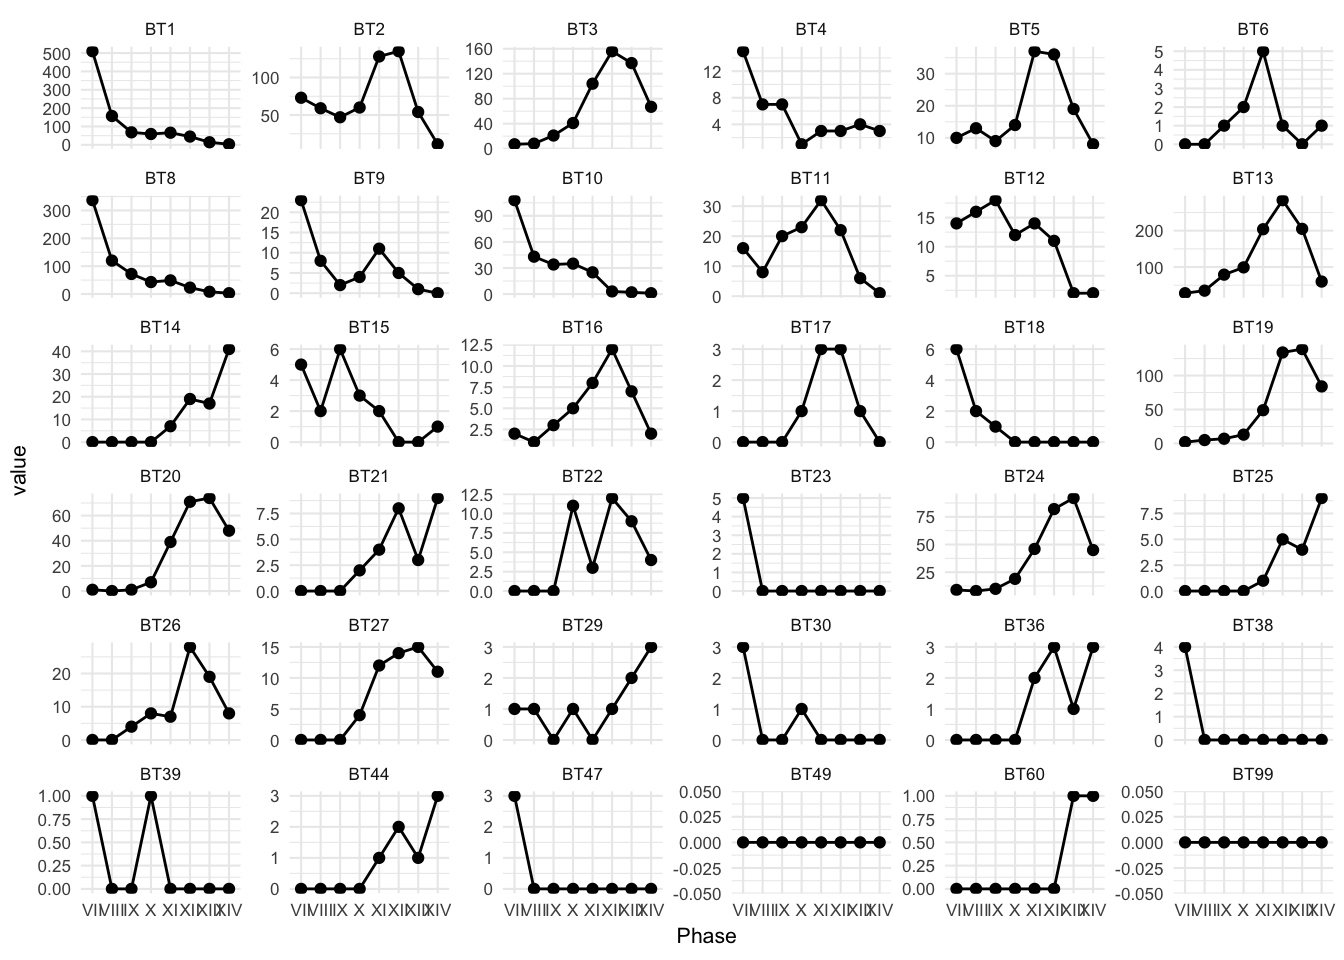
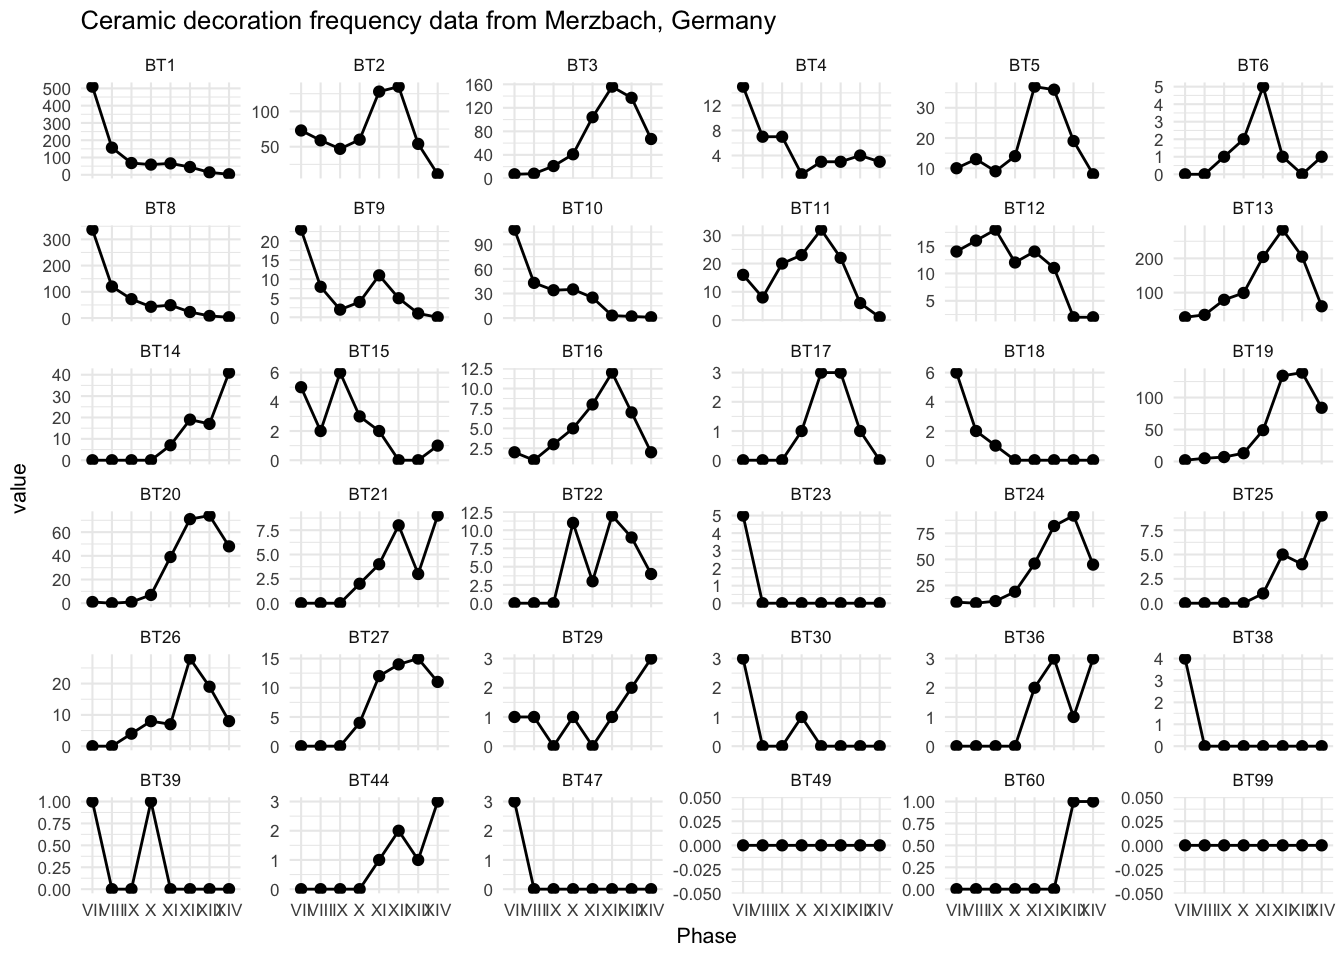
compute selection coef

diff --git a/README.md b/README.md
@@ -112,18 +112,52 @@ The selection coefficient for non-neutral model is in `s`, and so the value here
 An archaeological application
 -----------------------------
 
+### The frequency increment test
+
 Here is an example of using the FIT to identify pottery types that indicate selection. We are using frequencies of different decorative motifs in the Merzbach assemblage, Neolithic Germany (Crema et al. 2016; many other papers). We can load the data from the `evoarchdata` package on GitHub:
 
 ``` r
 # pak::pkg_install("benmarwick/evoarchdata")
 library(evoarchdata)
 data("ceramics_lbk_merzbach")
+
+# take a look
+ceramics_lbk_merzbach
+#>   Phase BT14 BT25 BT60 BT21 BT36 BT44 BT20 BT22 BT19 BT27 BT29 BT24 BT26
+#> 1   VII    0    0    0    0    0    0    1    0    2    0    1    9    0
+#> 2  VIII    0    0    0    0    0    0    0    0    5    0    1    8    0
+#> 3    IX    0    0    0    0    0    0    1    0    7    0    0   10    4
+#> 4     X    0    0    0    2    0    0    7   11   13    4    1   19    8
+#> 5    XI    7    1    0    4    2    1   39    3   49   12    0   46    7
+#> 6   XII   19    5    0    8    3    2   71   12  134   14    1   82   28
+#> 7  XIII   17    4    1    3    1    1   74    9  139   15    2   92   19
+#> 8   XIV   41    9    1    9    3    3   48    4   84   11    3   45    8
+#>   BT6 BT3 BT17 BT13 BT16 BT5 BT2 BT11 BT99 BT49 BT12 BT4 BT15 BT9 BT39
+#> 1   0   7    0   28    2  10  73   16    0    0   14  15    5  23    1
+#> 2   0   8    0   35    1  13  59    8    0    0   16   7    2   8    0
+#> 3   1  21    0   79    3   9  47   20    0    0   18   7    6   2    0
+#> 4   2  41    1   99    5  14  60   23    0    0   12   1    3   4    1
+#> 5   5 104    3  204    8  37 128   32    0    0   14   3    2  11    0
+#> 6   1 156    3  284   12  36 135   22    0    0   11   3    0   5    0
+#> 7   0 137    1  205    7  19  54    6    0    0    2   4    0   1    0
+#> 8   1  67    0   60    2   8  11    1    0    0    2   3    1   0    0
+#>   BT10 BT8 BT1 BT30 BT18 BT47 BT38 BT23
+#> 1  108 337 510    3    6    3    4    5
+#> 2   43 120 157    0    2    0    0    0
+#> 3   34  72  68    0    1    0    0    0
+#> 4   35  43  59    1    0    0    0    0
+#> 5   25  49  66    0    0    0    0    0
+#> 6    3  23  45    0    0    0    0    0
+#> 7    2   8  14    0    0    0    0    0
+#> 8    1   3   3    0    0    0    0    0
 ```
 
 Here's an overview of how each motif changes over time in this assemblage:
 
 ``` r
 # get ordered factor of decoration types so we can order the plots nicely 
+
+# install.packages("tidyverse")
 suppressPackageStartupMessages(library(tidyverse))
 
 decoration_types <- 
@@ -150,17 +184,46 @@ ggplot(ceramics_lbk_merzbach_long,
   geom_point() +
   facet_wrap(~variable,
              scales = "free_y") +
-  theme_minimal(base_size = 8)
+  theme_minimal(base_size = 8) +
+  ggtitle(str_glue('Ceramic decoration frequency data from Merzbach, Germany'))
 ```
 
 <img src="man/figures/README-unnamed-chunk-4-1.png" width="100%" />
+
+There are many decoration types, so let's narrow it down to ones that have a maximum frequency of at least 50.
+
+``` r
+ceramics_lbk_merzbach_long_subset <-
+  ceramics_lbk_merzbach_long %>% 
+  group_by(variable) %>% 
+  filter(max(value) > max_n)
+
+# keep these decorations
+decorations_to_keep <- unique(as.character(ceramics_lbk_merzbach_long_subset$variable))
+
+# plot
+ggplot(ceramics_lbk_merzbach_long_subset,
+       aes(Phase,
+           value)) +
+  geom_line(aes(group = 1)) +
+  geom_point() +
+  facet_wrap(~variable,
+             scales = "free_y") +
+  theme_minimal(base_size = 8)
+```
+
+<img src="man/figures/README-unnamed-chunk-5-1.png" width="100%" />
 
 To prepare the data for the FIT we need to reshape it to a long form, compute frequency as ratio of count of type of a interest to all other types, and drop decoration types with less than threee time points (we need a min of three time points to compute the FIT).
 
 ``` r
 # reshape data for each decoration type to go into test:
-df <- ceramics_lbk_merzbach[ , 2:ncol(ceramics_lbk_merzbach)]
-time <- utils:::.roman2numeric(ceramics_lbk_merzbach$Phase)
+ceramics_lbk_merzbach_prop <- 
+  ceramics_lbk_merzbach %>% 
+  select(Phase, decorations_to_keep)
+
+df <- ceramics_lbk_merzbach_prop[ , 2:ncol(ceramics_lbk_merzbach_prop)]
+time <- utils:::.roman2numeric(ceramics_lbk_merzbach_prop$Phase)
 
 # compute frequency as ratio of count of type of interest to all other types
 list_of_dfs <- vector("list", ncol(df))
@@ -209,7 +272,8 @@ df_fit_test_results <-
   mutate(sig = ifelse(fit_p <= 0.05, "selection", "neutral"))
 
 ceramics_lbk_merzbach_long_sig <-
-  ceramics_lbk_merzbach_long %>%
+  ceramics_lbk_merzbach_long_subset %>%
+  ungroup %>% 
   left_join(df_fit_test_results %>% 
               select(type, sig), by = c("variable" = "type")) %>%
   mutate(Phase_num = utils:::.roman2numeric(as.character(Phase))) %>% 
@@ -227,17 +291,19 @@ ggplot(ceramics_lbk_merzbach_long_sig,
   geom_line() +
   facet_wrap(~variable,
              scales = "free_y") +
-  theme_minimal(base_size = 8)
+  theme_minimal(base_size = 8) +
+  ggtitle(str_glue('Application of the FIT to decoration frequency data from Merzbach.\nShowing only decoration types that have a maximum frequency of at least {max_n}'))
 ```
 
-<img src="man/figures/README-unnamed-chunk-7-1.png" width="100%" />
+<img src="man/figures/README-unnamed-chunk-8-1.png" width="100%" />
 
 We can subset each time series to see if we can identify episodes of selection among decoration types that might not show overall selection. First we need a function to isolate a data frame of rolling groups of three time points:
 
 ``` r
-# Function to get df with rolling groups of 3
+# Function to get df with rolling groups of n
 # from https://stackoverflow.com/a/5543632/1036500
-df_with_rolling_idx <- function(df, window = 3) {
+n <- 5
+df_with_rolling_idx <- function(df, window = n) {
   nr <- nrow(df)
   w <- window       # window size
   i <- 1:nr         # indices of the rows
@@ -255,11 +321,9 @@ df_with_rolling_idx <- function(df, window = 3) {
 Now we can compute the FIT on sections of the time series for each decoration type to identify time coordinates where selection has occurred, even when the overall series does not indicate selection:
 
 ``` r
-n <- 5
 merzbach_long_sig_mid_time_point <- 
 list_of_dfs %>% 
-  keep(., ~nrow(.x) >= n) %>% # need at least 4 rows of a type
-  bind_rows(.id = "type") %>% # to get rolling window of 3
+  bind_rows(.id = "type") %>% # to get rolling window of n
   nest(-type) %>%
   mutate(rolled = map(data, df_with_rolling_idx)) %>% 
   unnest(rolled) %>% 
@@ -271,13 +335,7 @@ list_of_dfs %>%
   mutate(fit_p = map(fit_test, ~.x$result %>% bind_rows)) %>%
   unnest(fit_p) %>%
   mutate(sig = ifelse(fit_p <= 0.05, "selection", "neutral")) %>% 
-  unnest(data) %>%                            
-  group_by(unid) %>%                          
-  slice(ceiling(n()/2)) %>% 
-  right_join(list_of_dfs %>% 
-               keep(., ~nrow(.x) >= n) %>% # need at least 4 rows of a type
-               bind_rows(.id = "type")) 
-#> Joining, by = c("type", "time", "count_this_one", "count_others", "frequency")
+  unnest(data) 
 
 # make type a factor so we can order the plots nicely 
 merzbach_long_sig_mid_time_point$type <- 
@@ -296,6 +354,13 @@ ceramics_lbk_merzbach_long_sig_to_plot_with_others <-
   arrange(type, time) %>% 
   mutate(type = fct_relevel(type, decoration_types))
 
+sig_decorations <- 
+  ceramics_lbk_merzbach_long_sig_to_plot_with_others %>% 
+  filter(sig == "selection") %>% 
+  pull(type) %>% 
+  as.character() %>% 
+  unique()
+
 # here we have the plot showing overall selection, and point-wise selection
 ggplot()  +
   geom_line(data = merzbach_long_sig_mid_time_point %>% 
@@ -307,9 +372,7 @@ ggplot()  +
             colour = "grey80",
             lineend = "round") +
   geom_point(data = merzbach_long_sig_mid_time_point %>% 
-               filter(sig == "selection") %>% 
-               group_by(type)  %>% 
-               filter(n() > 2),
+               filter(sig == "selection"),
              aes(time,
                  count_this_one,
                  group = type),
@@ -327,33 +390,84 @@ ggplot()  +
                 colour = sig,
                 shape = sig))  +
   facet_wrap( ~ type, scales = "free_y") +
-  theme_minimal(base_size = 8)
-#> geom_path: Each group consists of only one observation. Do you need to
-#> adjust the group aesthetic?
-#> geom_path: Each group consists of only one observation. Do you need to
-#> adjust the group aesthetic?
-#> geom_path: Each group consists of only one observation. Do you need to
-#> adjust the group aesthetic?
-#> geom_path: Each group consists of only one observation. Do you need to
-#> adjust the group aesthetic?
-#> geom_path: Each group consists of only one observation. Do you need to
-#> adjust the group aesthetic?
-#> geom_path: Each group consists of only one observation. Do you need to
-#> adjust the group aesthetic?
-#> geom_path: Each group consists of only one observation. Do you need to
-#> adjust the group aesthetic?
-#> geom_path: Each group consists of only one observation. Do you need to
-#> adjust the group aesthetic?
-#> geom_path: Each group consists of only one observation. Do you need to
-#> adjust the group aesthetic?
-#> geom_path: Each group consists of only one observation. Do you need to
-#> adjust the group aesthetic?
-#> geom_path: Each group consists of only one observation. Do you need to
-#> adjust the group aesthetic?
-#> geom_path: Each group consists of only one observation. Do you need to
-#> adjust the group aesthetic?
+  theme_minimal(base_size = 8) +
+  ggtitle(str_glue('Application of the FIT to decoration frequency data from Merzbach.\nShading highlights the data points where FIT identifies selection'))
 ```
 
-<img src="man/figures/README-unnamed-chunk-9-1.png" width="100%" />
+<img src="man/figures/README-unnamed-chunk-10-1.png" width="100%" />
+
+### Estimating the population size and the selection coefficient
+
+We can compute the selection coefficient and related statistics for the decoration types that we previously identified as having a signal of selection.
+
+``` r
+decoration_types_tsinfer_output <- 
+list_of_dfs_three_or_more %>% 
+  keep(., names(.) %in% sig_decorations) %>% 
+  map(~tsinfer(
+    tvec = .x$time,
+    bvec = .x$count_this_one,
+    nvec = .x$count_others,
+    verbose = FALSE
+  )) %>% 
+  bind_rows(.id = "type")
+
+# inspect the output
+decoration_types_tsinfer_output
+#> # A tibble: 7 x 9
+#>   type    s.0     alpha.0     f0.0    LL.0       s     alpha     f0      LL
+#>   <chr> <dbl>       <dbl>    <dbl>   <dbl>   <dbl>     <dbl>  <dbl>   <dbl>
+#> 1 BT20      0 100000000.  0.000931  -640.   0.699     1.00e8 0.999  -1.16e4
+#> 2 BT19      0 100000000.  0.00186  -1004.   0.242     1.00e8 1.000  -1.41e3
+#> 3 BT24      0 100000000.  0.00844   -114.   0.124     1.00e8 0.998  -1.34e2
+#> 4 BT3       0        11.1 0.00655     30.1  0.213     1.00e8 0.900  -4.30e2
+#> 5 BT13      0        10.  0.0267      37.4  0.0670    1.00e1 0.993   3.63e1
+#> 6 BT2       0        42.2 0.0729      32.7  0.0863    1.14e2 0.0458  3.20e1
+#> 7 BT8       0        75.3 0.457       35.2 -0.323     1.00e8 1.000  -5.80e2
+```
+
+And we can visualise it:
+
+``` r
+# join with frequency data
+ceramics_lbk_merzbach_long_sig_to_plot_with_others_select <- 
+ceramics_lbk_merzbach_long_sig_to_plot_with_others %>% 
+  filter(type %in% sig_decorations) %>% 
+  left_join(decoration_types_tsinfer_output) %>% 
+  filter(s > 0) %>% 
+  mutate(sel_coef = s) %>% 
+  mutate(plot_label = str_glue('{type}, s = {round(sel_coef, 3)}'))
+#> Joining, by = "type"
+
+# here we have the plot showing overall selection, and point-wise selection
+library(scales)
+#> 
+#> Attaching package: 'scales'
+#> The following object is masked from 'package:purrr':
+#> 
+#>     discard
+#> The following object is masked from 'package:readr':
+#> 
+#>     col_factor
+ggplot(ceramics_lbk_merzbach_long_sig_to_plot_with_others_select)  +
+  geom_line(aes(time,
+                count_this_one, 
+                group = plot_label,
+                size = (sel_coef),
+                alpha = rescale(sel_coef))) +
+  geom_point(aes(time,
+                count_this_one, 
+                group = plot_label,
+                size =  rescale(sel_coef),
+                alpha = rescale(sel_coef)))  +
+  facet_wrap( ~ plot_label, scales = "free_y") +
+  scale_alpha_continuous(guide = FALSE) +
+  scale_size(NULL, range = c(1, 5)) + 
+  theme_minimal(base_size = 8) +
+  theme(legend.position="none") + 
+  ggtitle(str_glue('Computation of the selection coefficient on decoration frequency data from Merzbach'))
+```
+
+<img src="man/figures/README-unnamed-chunk-12-1.png" width="100%" />
 
 Please note that the `signatselect` project is released with a [Contributor Code of Conduct](CODE_OF_CONDUCT.md). By contributing to this project, you agree to abide by its terms.
